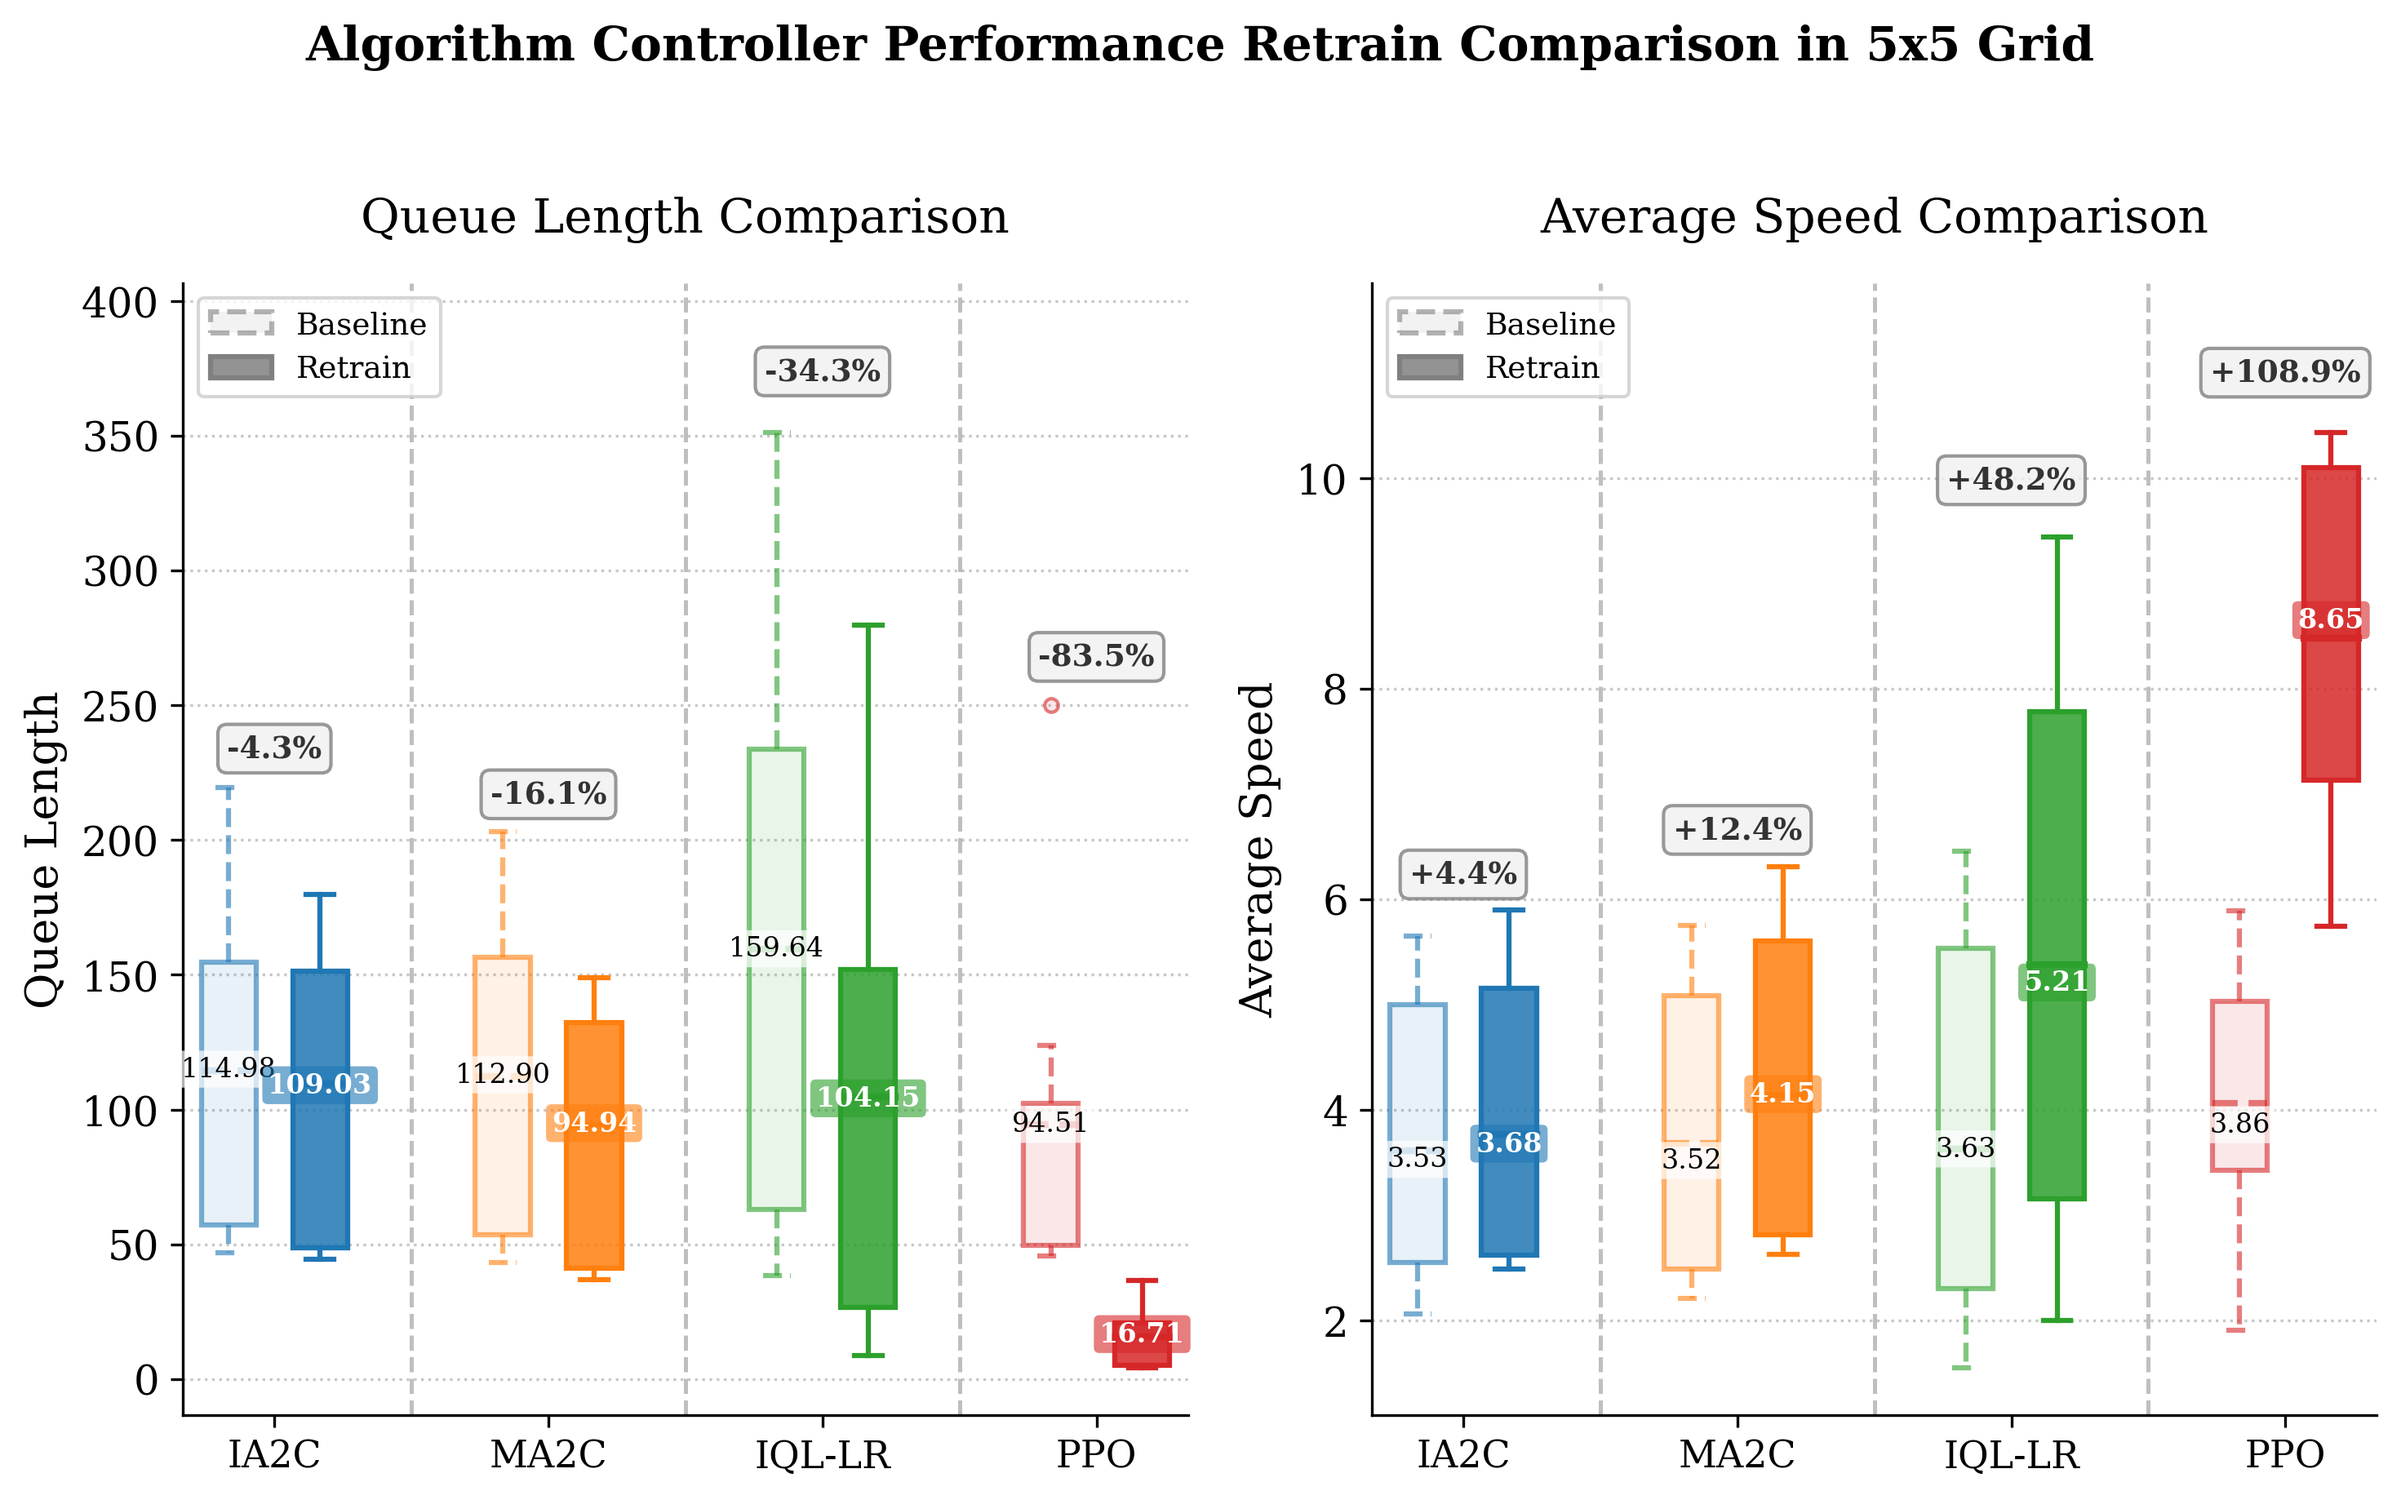
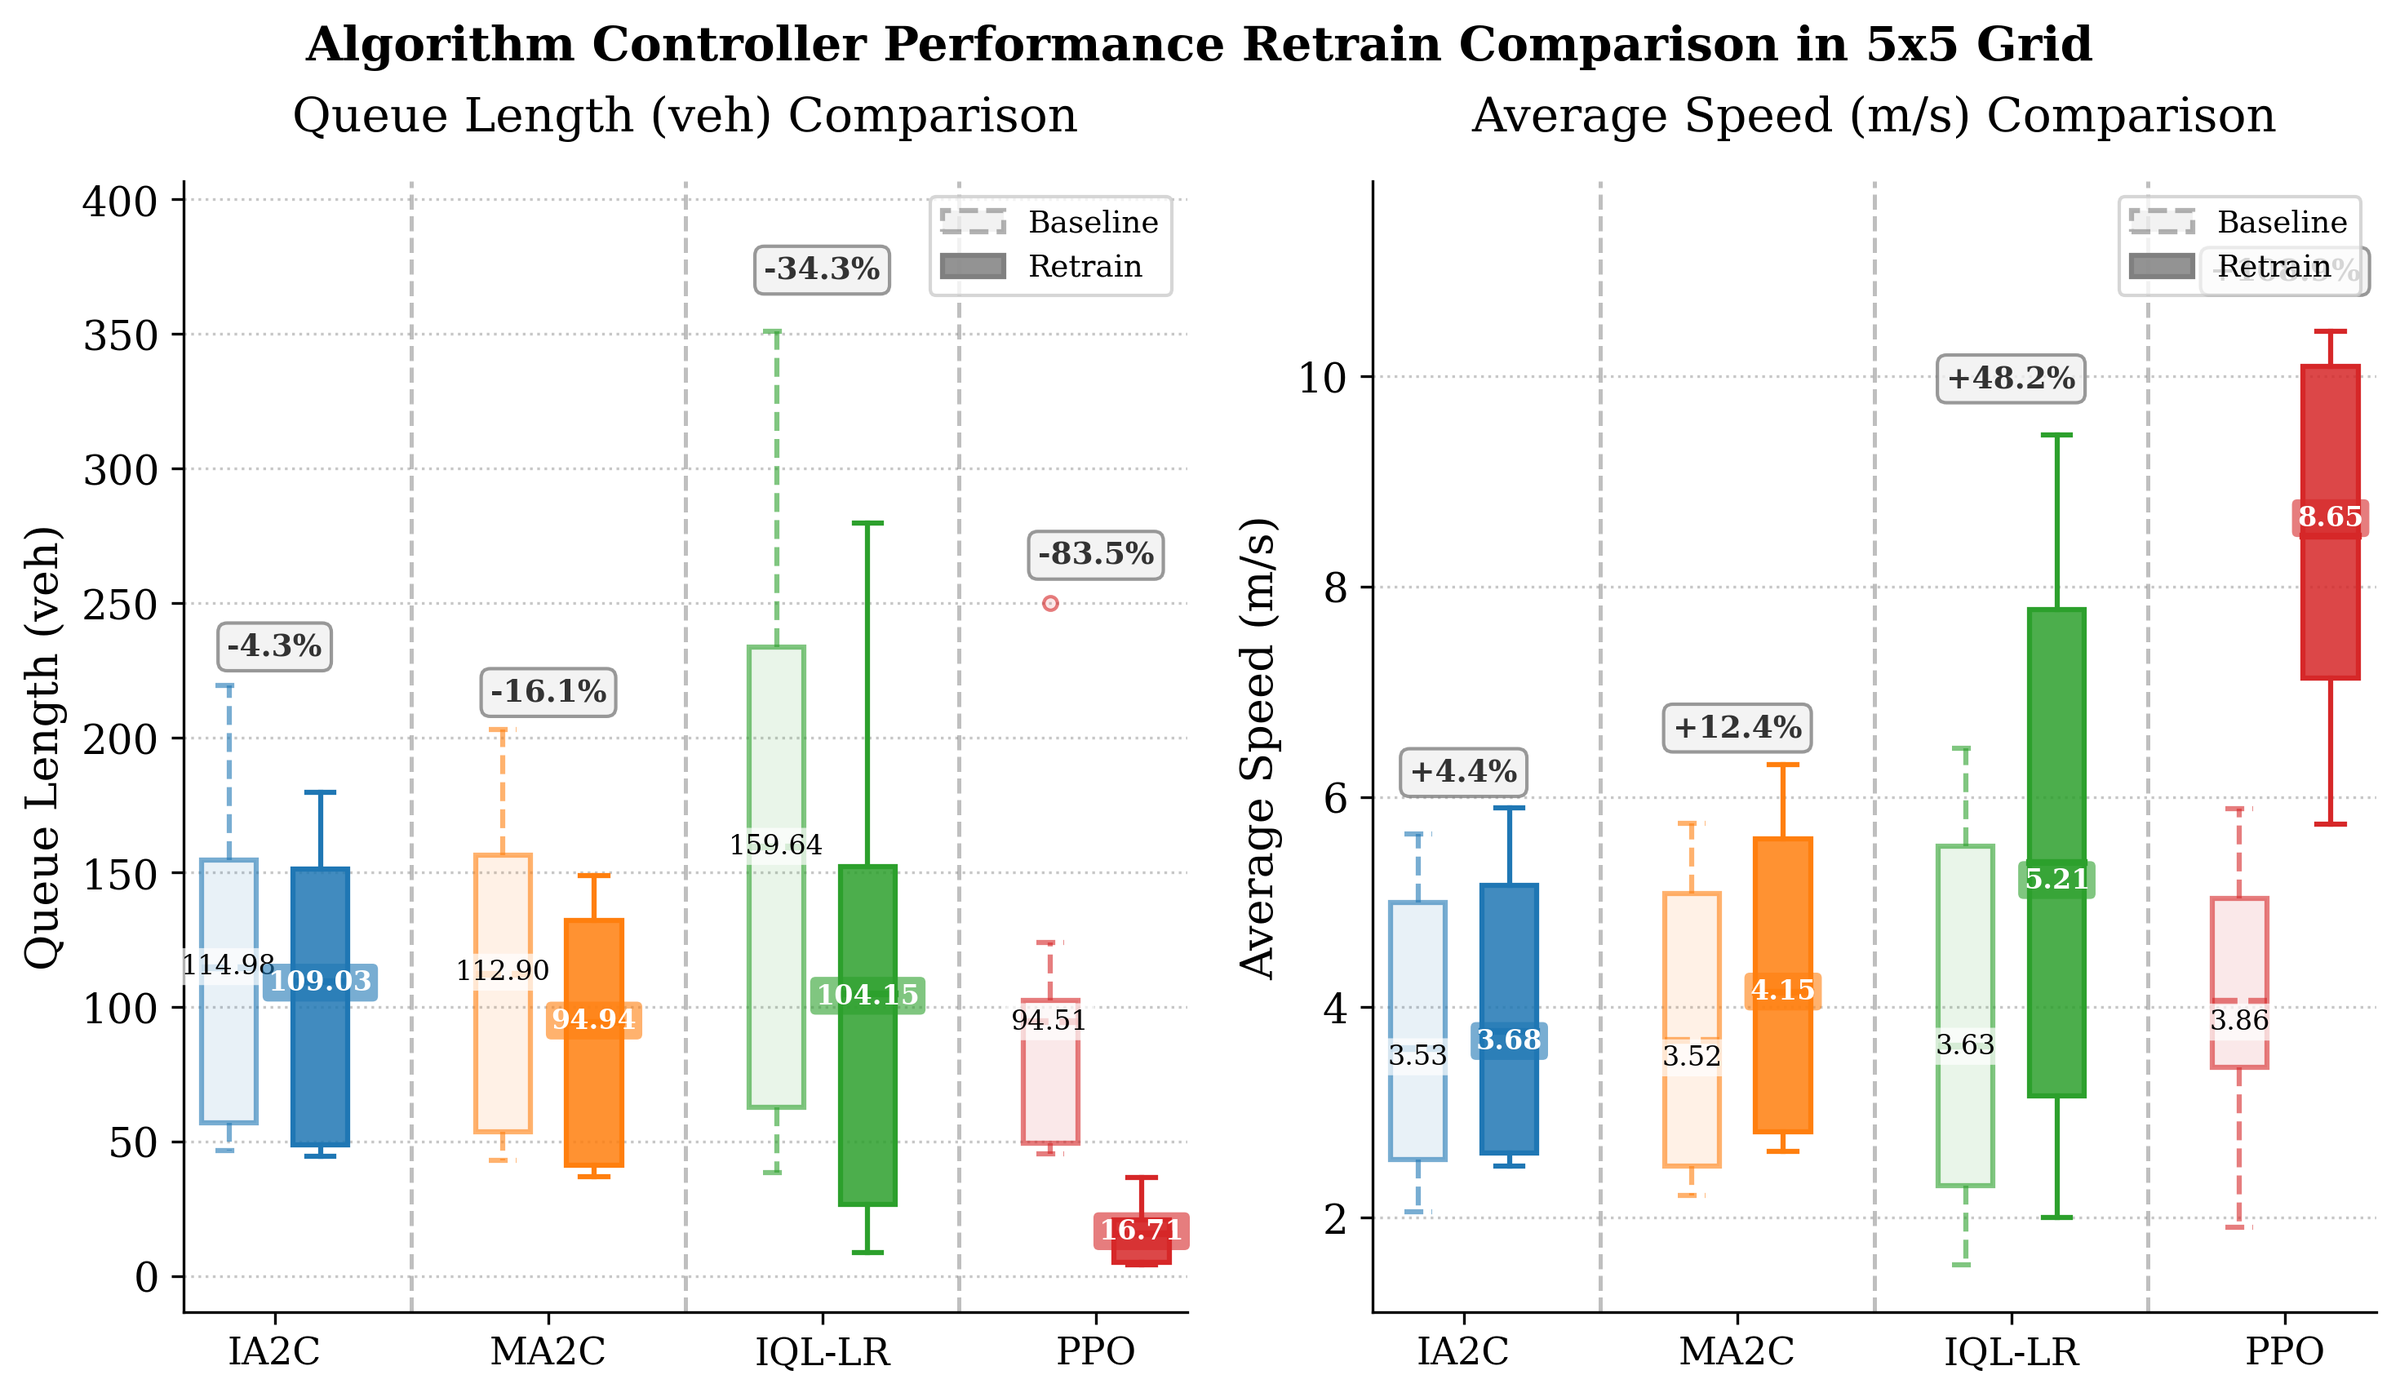
minor change for plot

diff --git a/boxplot_comparison_2in1.py b/boxplot_comparison_2in1.py
@@ -196,19 +196,19 @@ def main():
 
     # 画左侧 Queue Length
     plot_boxplot_metric_on_ax(ax1, df, 
-                              metric_name='Queue Length', 
+                              metric_name='Queue Length (veh)', 
                               col_marl=[1, 7, 13, 19], 
                               col_drmarl=[2, 8, 14, 20])
 
     # 画右侧 Average Speed
     plot_boxplot_metric_on_ax(ax2, df, 
-                              metric_name='Average Speed', 
+                              metric_name='Average Speed (m/s)', 
                               col_marl=[4, 10, 16, 22], 
                               col_drmarl=[5, 11, 17, 23])
 
     # 整体大标题字号稍微缩减
-    # fig.suptitle('Algorithm Controller Performance Retrain Comparison in 5x5 Grid', fontsize=14, fontweight='bold', y=1.02)
-    fig.suptitle('Algorithm Controller Performance Retrain Comparison in Monaco City', fontsize=14, fontweight='bold', y=1.02)
+    # fig.suptitle('Algorithm Controller Performance Retrain Comparison in 5x5 Grid', fontsize=14, fontweight='bold', y=0.95)
+    fig.suptitle('Algorithm Controller Performance Retrain Comparison in Monaco City', fontsize=14, fontweight='bold', y=0.95)
     plt.tight_layout()
     
     # 保存为一张总图
